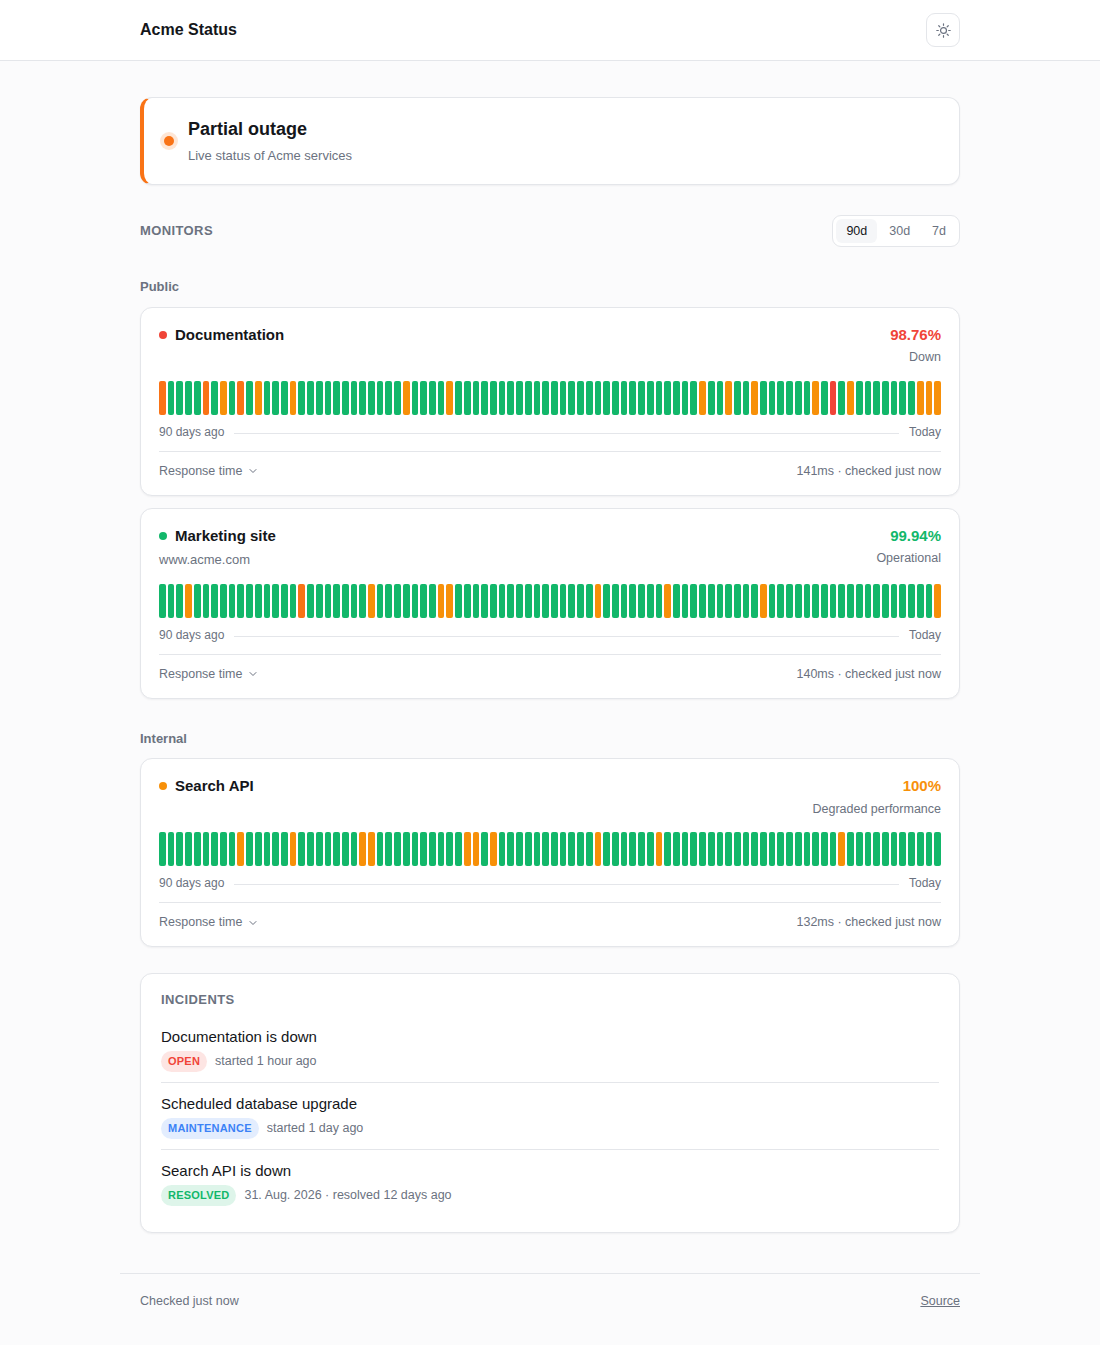
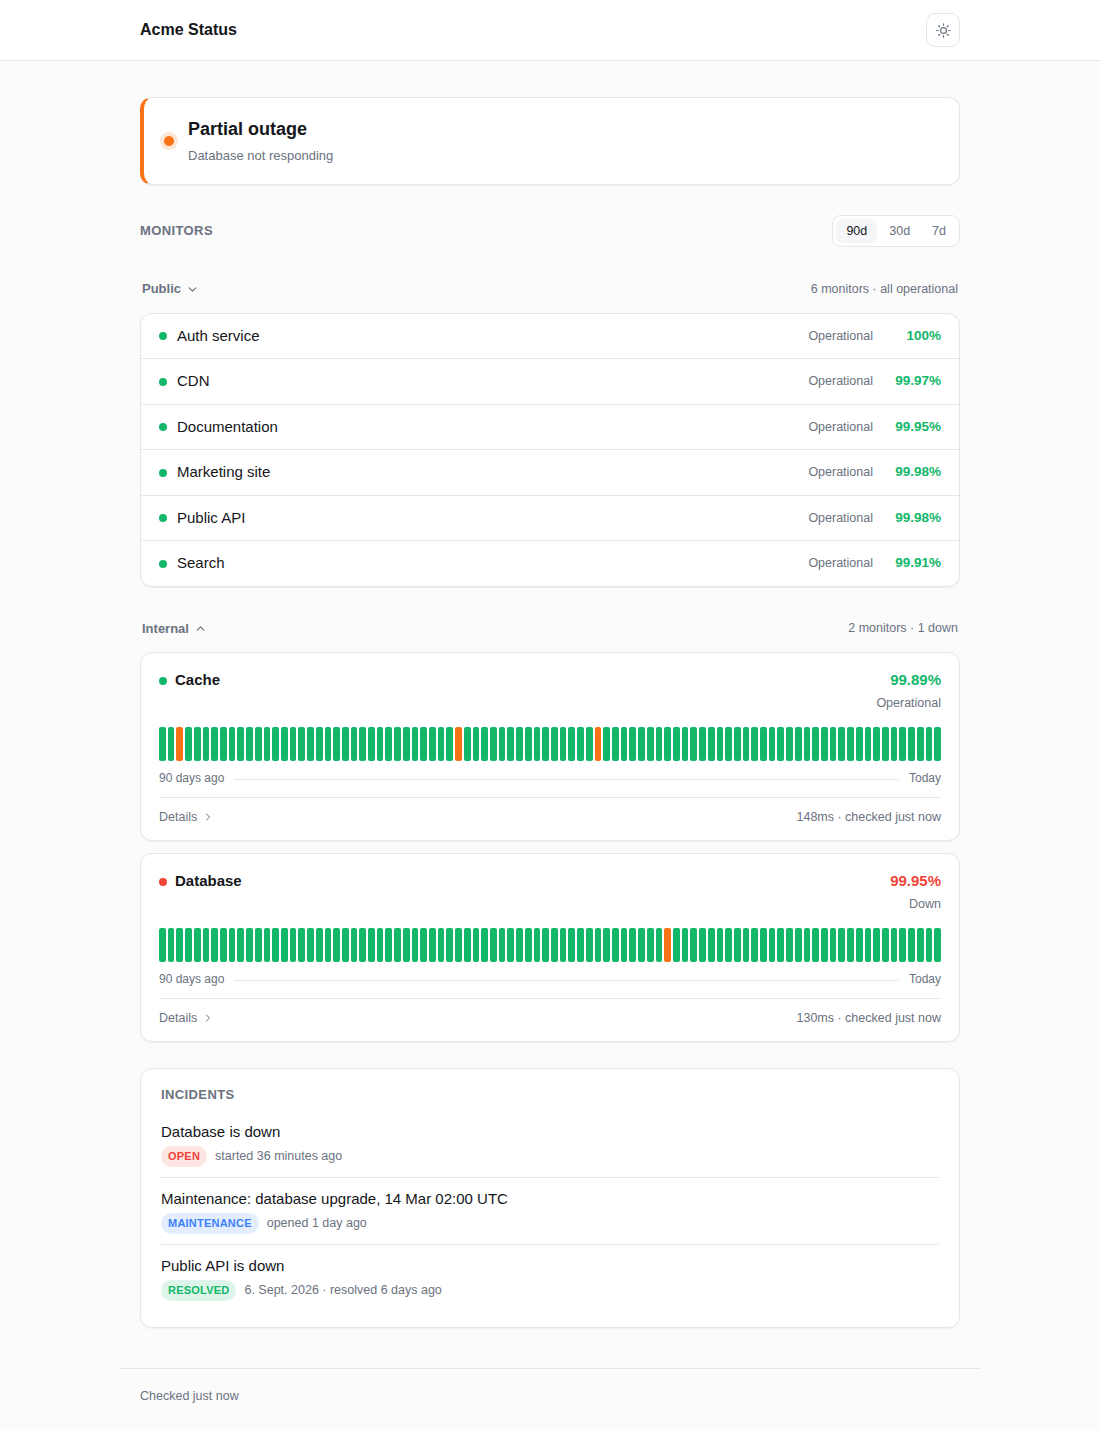
feat: read incidents on the status page
Clicking an incident opened GitHub. It now opens the incident in the page:
state, duration, the monitors it affects as buttons leading to them, and the
description from the issue, with a link to the issue for anyone who wants to
comment. The front page list and the one in a monitor's details share the
same renderer, which they did not before.

Issue text is attacker supplied on a public repository, so the description is
built from text nodes: headings, lists, bold, code and http links are
recognised, everything else stays literal.

Screenshots are regenerated for the current interface, gathered into one
block, and the stale response time shot is replaced by the detail view.

diff --git a/site/app.js b/site/app.js
@@ -54,6 +54,14 @@ function relative(iso) {
   return `${rounded} ${unit}${rounded === 1 ? '' : 's'} ago`;
 }
 
+function elapsed(from, to) {
+  const minutes = Math.max(1, Math.round((new Date(to) - new Date(from)) / 60000));
+  if (minutes < 60) return `${minutes} minute${minutes === 1 ? '' : 's'}`;
+  const hours = Math.floor(minutes / 60);
+  if (hours < 24) return `${hours}h ${minutes % 60}m`;
+  return `${Math.floor(hours / 24)}d ${hours % 24}h`;
+}
+
 function formatDate(iso) {
   return new Date(iso).toLocaleDateString(undefined, { month: 'short', day: 'numeric', year: 'numeric' });
 }
@@ -184,10 +192,15 @@ function figure(value, label) {
 
 function renderIncidentItem(incident) {
   const item = el('li');
-  const link = el('a', null, incident.title);
-  link.href = incident.url;
-  link.rel = 'noopener';
-  item.append(link);
+  const open = () => {
+    const hash = `#/incident/${incident.number}`;
+    if (location.hash === hash) openIncident(incident.number);
+    else location.hash = hash;
+  };
+  const title = el('button', 'incident-title', incident.title);
+  title.type = 'button';
+  title.addEventListener('click', open);
+  item.append(title);
 
   const meta = el('div', 'incident-meta');
   const state = incident.maintenance ? 'maintenance' : incident.state === 'open' ? 'open' : 'resolved';
@@ -203,6 +216,119 @@ function renderIncidentItem(incident) {
   );
   item.append(meta);
   return item;
+}
+
+// Issue bodies are written by whoever filed the issue, so they are never
+// inserted as markup. This walks the few constructs the templates produce and
+// builds text nodes for everything else.
+function inline(target, text) {
+  const pattern = /\[([^\]]+)\]\((https?:\/\/[^\s)]+)\)|(https?:\/\/[^\s<]+)|\*\*([^*]+)\*\*|`([^`]+)`/g;
+  let last = 0;
+  for (const match of text.matchAll(pattern)) {
+    if (match.index > last) target.append(text.slice(last, match.index));
+    const [, label, href, bare, bold, code] = match;
+    if (href) {
+      const link = el('a', null, label);
+      link.href = href;
+      link.rel = 'noopener';
+      target.append(link);
+    } else if (bare) {
+      const link = el('a', null, bare.replace(/^https?:\/\//, ''));
+      link.href = bare;
+      link.rel = 'noopener';
+      target.append(link);
+    } else if (bold) {
+      target.append(el('strong', null, bold));
+    } else {
+      target.append(el('code', null, code));
+    }
+    last = match.index + match[0].length;
+  }
+  target.append(text.slice(last));
+}
+
+function renderBody(container, body) {
+  let list = null;
+  for (const raw of body.split('\n')) {
+    const line = raw.trim();
+    if (!line) {
+      list = null;
+      continue;
+    }
+    if (/^#{1,6}\s/.test(line)) {
+      list = null;
+      container.append(el('h4', 'body-heading', line.replace(/^#{1,6}\s*/, '')));
+      continue;
+    }
+    if (/^[-*]\s/.test(line)) {
+      if (!list) container.append((list = el('ul', 'body-list')));
+      const item = el('li');
+      inline(item, line.replace(/^[-*]\s*/, ''));
+      list.append(item);
+      continue;
+    }
+    list = null;
+    const paragraph = el('p', 'body-text');
+    inline(paragraph, line);
+    container.append(paragraph);
+  }
+}
+
+function openIncident(number) {
+  const incident = (data.incidents || []).find((candidate) => candidate.number === Number(number));
+  if (!incident) return;
+
+  detailBody.replaceChildren();
+  const state = incident.maintenance ? 'maintenance' : incident.state === 'open' ? 'open' : 'resolved';
+  const head = el('div', 'detail-head');
+  head.append(el('span', null, incident.title));
+  detailBody.append(head);
+
+  const meta = el('p', 'detail-meta');
+  meta.append(el('span', `tag tag-${state}`, state));
+  meta.append(
+    el(
+      'span',
+      null,
+      ` ${incident.maintenance ? 'opened' : 'started'} ${formatDate(incident.createdAt)}` +
+        (incident.closedAt
+          ? ` · ${incident.maintenance ? 'completed' : 'resolved'} ${formatDate(incident.closedAt)} after ${elapsed(incident.createdAt, incident.closedAt)}`
+          : ` · ${relative(incident.createdAt)}`),
+    ),
+  );
+  detailBody.append(meta);
+
+  const affected = (incident.monitors || [])
+    .map((slug) => data.monitors.find((monitor) => monitor.slug === slug))
+    .filter(Boolean);
+  if (affected.length) {
+    const chips = el('p', 'chips');
+    for (const monitor of affected) {
+      const chip = el('button', 'chip', monitor.name);
+      chip.type = 'button';
+      chip.style.setProperty('--status', `var(--${monitor.status === 'none' ? 'none' : monitor.status})`);
+      chip.addEventListener('click', () => {
+        location.hash = `#/${monitor.slug}`;
+      });
+      chips.append(chip);
+    }
+    detailBody.append(chips);
+  }
+
+  const section = el('div', 'detail-section');
+  if (incident.body) renderBody(section, incident.body);
+  else section.append(el('p', 'detail-empty', 'No description was given.'));
+  detailBody.append(section);
+
+  const footer = el('p', 'detail-meta detail-source');
+  const link = el('a', null, `Issue #${incident.number} on GitHub`);
+  link.href = incident.url;
+  link.rel = 'noopener';
+  link.target = '_blank';
+  footer.append(link);
+  detailBody.append(footer);
+
+  if (!dialog.open) dialog.showModal();
 }
 
 async function openDetail(slug) {
@@ -279,12 +405,14 @@ async function openDetail(slug) {
 }
 
 function syncDialog() {
-  const slug = location.hash.startsWith('#/') ? decodeURIComponent(location.hash.slice(2)) : '';
-  if (!slug) {
+  const route = location.hash.startsWith('#/') ? decodeURIComponent(location.hash.slice(2)) : '';
+  if (!route) {
     if (dialog.open) dialog.close();
     return;
   }
-  openDetail(slug);
+  const incident = route.match(/^incident\/(\d+)$/);
+  if (incident) openIncident(incident[1]);
+  else openDetail(route);
 }
 
 // Closing is driven explicitly rather than from the dialog's own close event,
@@ -351,29 +479,7 @@ function renderIncidents(incidents) {
   }
 
   list.replaceChildren();
-  for (const incident of recent.slice(0, 10)) {
-    const item = el('li');
-    const link = el('a', null, incident.title);
-    link.href = incident.url;
-    link.rel = 'noopener';
-    item.append(link);
-
-    const meta = el('div', 'incident-meta');
-    const state = incident.maintenance ? 'maintenance' : incident.state === 'open' ? 'open' : 'resolved';
-    meta.append(el('span', `tag tag-${state}`, state));
-    // Maintenance is announced ahead of time, so it is never "started".
-    meta.append(
-      el(
-        'span',
-        null,
-        incident.state === 'open'
-          ? `${incident.maintenance ? 'opened' : 'started'} ${relative(incident.createdAt)}`
-          : `${formatDate(incident.createdAt)} · ${incident.maintenance ? 'completed' : 'resolved'} ${relative(incident.closedAt)}`,
-      ),
-    );
-    item.append(meta);
-    list.append(item);
-  }
+  for (const incident of recent.slice(0, 10)) list.append(renderIncidentItem(incident));
   section.hidden = false;
 }
 

diff --git a/site/style.css b/site/style.css
@@ -222,13 +222,19 @@ main.shell {
   padding-top: 4px;
 }
 
-.incident-list a {
-  color: var(--text);
+.incident-title {
+  display: block;
+  padding: 0;
+  border: 0;
+  background: none;
+  font: inherit;
   font-weight: 500;
-  text-decoration: none;
+  color: var(--text);
+  text-align: left;
+  cursor: pointer;
 }
 
-.incident-list a:hover {
+.incident-title:hover {
   text-decoration: underline;
 }
 
@@ -767,4 +773,73 @@ main.shell {
   .detail-figures {
     grid-template-columns: repeat(2, 1fr);
   }
+}
+
+.chips {
+  display: flex;
+  flex-wrap: wrap;
+  gap: 6px;
+  margin: 14px 0 0;
+}
+
+.chip {
+  display: flex;
+  align-items: center;
+  gap: 6px;
+  padding: 4px 10px 4px 8px;
+  border: 1px solid var(--border);
+  border-radius: 999px;
+  background: var(--surface-alt);
+  color: var(--text);
+  font: inherit;
+  font-size: 12.5px;
+  cursor: pointer;
+}
+
+.chip::before {
+  content: '';
+  width: 7px;
+  height: 7px;
+  border-radius: 50%;
+  background: var(--status, var(--none));
+}
+
+.chip:hover {
+  border-color: color-mix(in srgb, var(--text) 20%, var(--border));
+}
+
+.body-heading {
+  margin: 16px 0 4px;
+  font-size: 12px;
+  font-weight: 600;
+  letter-spacing: 0.03em;
+  text-transform: uppercase;
+  color: var(--muted);
+}
+
+.body-text {
+  margin: 0 0 8px;
+  font-size: 14px;
+  line-height: 1.6;
+}
+
+.body-list {
+  margin: 0 0 8px;
+  padding-left: 20px;
+  font-size: 14px;
+  line-height: 1.6;
+}
+
+.body-text code,
+.body-list code {
+  background: var(--surface-alt);
+  padding: 1px 5px;
+  border-radius: 5px;
+  font-size: 12.5px;
+}
+
+.detail-source {
+  margin-top: 20px;
+  padding-top: 14px;
+  border-top: 1px solid var(--border);
 }

diff --git a/README.md b/README.md
@@ -4,11 +4,13 @@ Uptime monitoring inspired by [Upptime](https://github.com/upptime/upptime) that
 Action, history is committed to this repository, outages open and close GitHub
 issues, and the status page is published with GitHub Pages.
 
-![Status page](.screenshots/dark.png)
-
-| Light | Response time | Mobile |
-| --- | --- | --- |
-| [![Light theme](.screenshots/light.png)](.screenshots/light.png) | [![Response time chart](.screenshots/response-time.png)](.screenshots/response-time.png) | [![Mobile](.screenshots/mobile.png)](.screenshots/mobile.png) |
+<p>
+  <img src=".screenshots/dark.png" width="49%" alt="Status page in the dark theme">
+  <img src=".screenshots/light.png" width="49%" alt="Status page in the light theme">
+  <img src=".screenshots/detail.png" width="49%" alt="Monitor details with history, response time and incidents">
+  <img src=".screenshots/incident.png" width="49%" alt="Incident read on the status page itself">
+  <img src=".screenshots/mobile.png" width="23%" alt="Status page on a phone">
+</p>
 
 ## Setup
 
@@ -136,6 +138,14 @@ Each monitor has its own address, `…/#/<slug>`, which opens the page with that
 monitor already in front. Incidents are matched by the marker in the issues
 this workflow opens, and by the **Affected monitors** field of the maintenance
 template, where a monitor's name or slug is resolved to the right monitor.
+
+Clicking an incident, in the list at the bottom of the page or in a monitor's
+details, opens the incident itself at `…/#/incident/<number>`: its state, how
+long it lasted, the monitors it affects as buttons that lead to them, and the
+description from the issue. Nobody is sent to GitHub to read it, though a link
+to the issue sits at the end for anyone who wants to comment. Issue text is
+written by whoever filed it, so it is rendered as text: headings, lists, bold,
+code and http links survive, and markup does not.
 
 ## Groups
 
